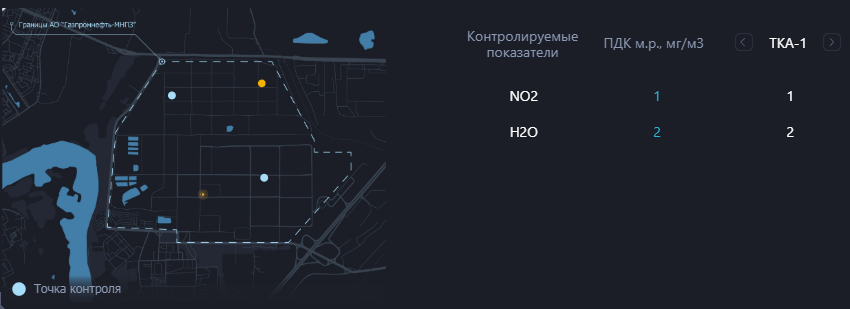
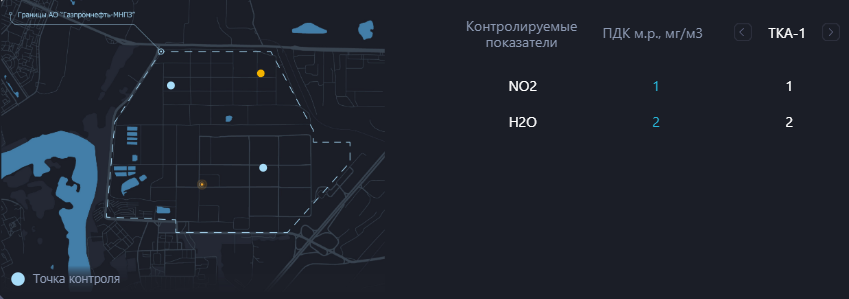
WidgetMapFix4

diff --git a/src/app/dashboard/widgets/map-ecology/map-ecology/map-ecology.component.ts b/src/app/dashboard/widgets/map-ecology/map-ecology/map-ecology.component.ts
@@ -107,6 +107,7 @@ export class MapEcologyComponent implements AfterViewInit, OnInit {
   }
 
   public drawMap(el,data){
+    debugger
     const svg = d3.select(el).append("svg")
       .attr("min-width", "200px")
       .attr("height", "100%")
@@ -231,12 +232,13 @@ export class MapEcologyComponent implements AfterViewInit, OnInit {
           index++;
           this.indexS = index;
           this.namePoint = this.datas[this.indexS].name;
+          this.clearMap();
+          this.drawMap(this.myCircle.nativeElement, this.datas);
         }
+       
       }
-    } catch (error) {
-      
+    } catch (error) { 
     }
-    
   }
 
   public backPoint(name){
@@ -245,13 +247,14 @@ export class MapEcologyComponent implements AfterViewInit, OnInit {
         if(name === item.name){
           index--;
           this.indexS = index;
-          this.namePoint = this.datas[this.indexS].name;
+          this.namePoint = this.datas[this.indexS].name; 
+          this.clearMap();
+          this.drawMap(this.myCircle.nativeElement, this.datas);
         }
       }
     } catch (error) {
       
     }
-
   }
 
 }
